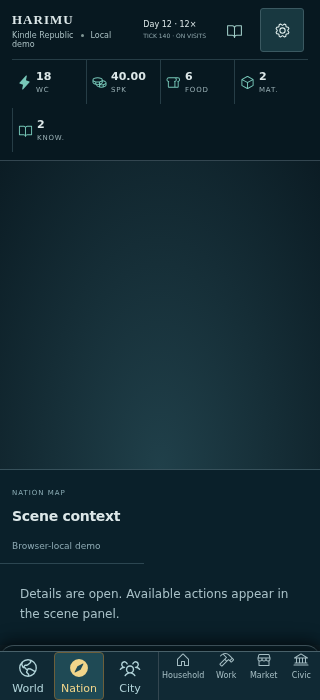
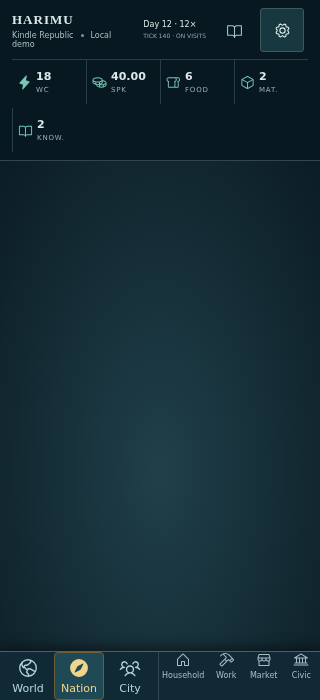
#392 S8: keep the #80 text-scaled nav track (top bar spans it) instead of collapsing it; restore text-size test; check asserts no gap

diff --git a/app/game-shell.css b/app/game-shell.css
@@ -435,13 +435,10 @@ body:has(.harimu-game){overflow:auto}
 /* #78: with a crest the emblem is the shield itself, so the square frame goes (a framed glyph read as an empty square in QA3's screenshots). */
 .game-identity .nation-emblem:has(>.nation-crest){width:auto;height:auto;border:0;border-radius:0}.nation-emblem>.nation-crest{display:block}.nation-emblem>.nation-crest~.nation-emblem-glyph{display:none}
 /* #392 S8 mobile pass (NEXT_PUBLIC_HARIMU_UI_V2_MOBILE; class .game-mobile-v2, only with the S4 rail). Phones only: the rail + place tabs row leaves the top
-   (its grid track collapses to 0) and becomes a bottom tab bar pinned to the screen bottom (sticky, above the fixed citizen dock); the panel reads as a bottom
+   (the top bar spans its text-scaled grid track) and becomes a bottom tab bar pinned to the screen bottom (sticky, above the fixed citizen dock); the panel reads as a bottom
    sheet (rounded top, raised edge, decorative grab bar). DOM order, copy and controls are unchanged; desktop is untouched. */
 @media(max-width:760px){
-  .harimu-game.game-mobile-v2{grid-template-rows:auto 0 minmax(260px,44dvh) minmax(calc(120px * var(--text-scale, 1)),auto) minmax(0,auto)}
-  .harimu-game.game-mobile-v2.game-mode-world{grid-template-rows:auto 0 minmax(260px,44dvh) minmax(calc(210px * var(--text-scale, 1)),auto) minmax(0,auto)}
-  .harimu-game.game-mobile-v2.game-mode-world.inspector-collapsed{grid-template-rows:auto 0 minmax(260px,54dvh) minmax(calc(210px * var(--text-scale, 1)),auto) auto}
-  .harimu-game.game-mobile-v2.game-city-v2{grid-template-rows:auto 0 minmax(260px,44dvh) 0 minmax(0,auto)}
+  .harimu-game.game-mobile-v2>.game-hud{grid-row:1 / span 2} /* the top bar fills the nav row's (text-scaled, #80) track, so the empty row leaves no gap */
   .game-mobile-v2.game-rail-on .game-nav-row{grid-row:8;position:sticky;bottom:0;z-index:8;border-top:1px solid #49616a;border-bottom:0;box-shadow:0 -4px 12px #0007}
   .game-mobile-v2.game-rail-on:has(.citizen-dock) .game-nav-row{bottom:45px}
   .game-mobile-v2 .game-inspector{border-top:1px solid #49616a;border-radius:14px 14px 0 0;box-shadow:0 -6px 16px #0006;padding-top:14px}
